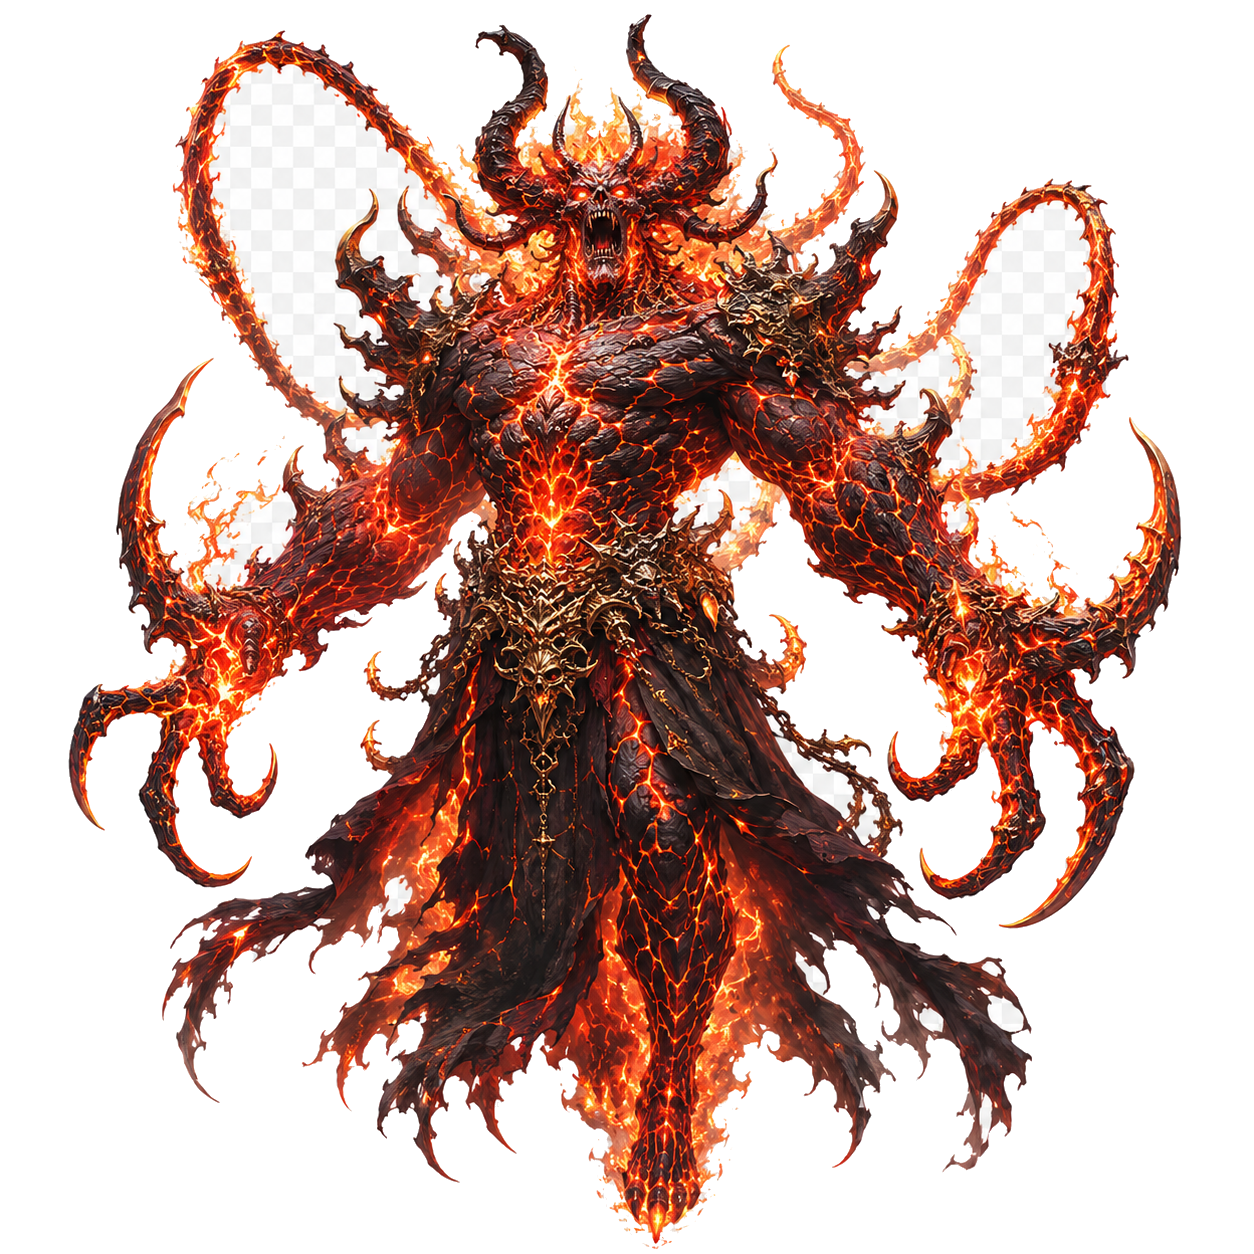
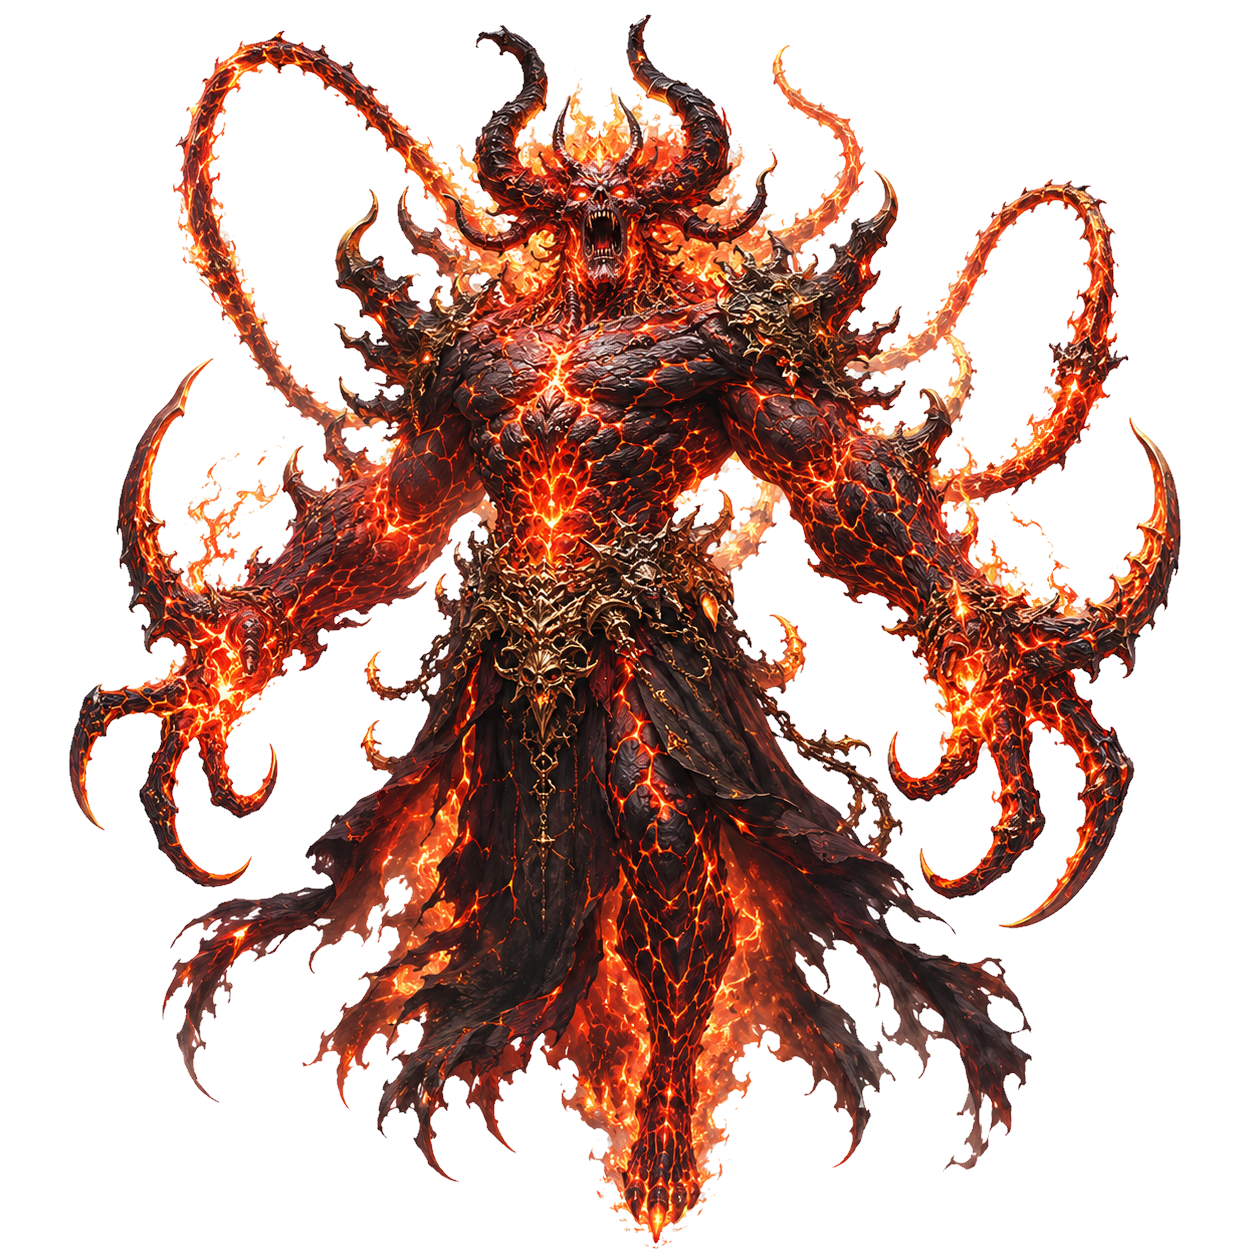
feat(八獄): プレータの画像を追加（透過処理済み）＋ターパナの白残りも除去
- pure-ta.png: チェック柄背景を透過化・胸元のハイライト誤削除は元画像から復元
- hatigokuta-pana.png: 白いポケット/縁の取り残しを同処理で除去
- これでボス画像8/8体すべて実装完了

Changed region(s): [[0.6842, 0.311, 0.7153, 0.3421]]

diff --git a/src/lib/hachigoku.js b/src/lib/hachigoku.js
@@ -123,7 +123,7 @@ export const HACHIGOKU_HELLS = [
     ultimate: { name: '血盆陀羅', mult: 3.0, hpBelow: 0.5, inflict: ['poison'], bleedStacks: 5, selfHealPct: 0.3 },
   },
   {
-    key: 'gaki', name: '餓鬼地獄', boss: 'プレータ', img: null,  // 画像は後日追加予定
+    key: 'gaki', name: '餓鬼地獄', boss: 'プレータ', img: '/pure-ta.png',
     theme: '吸血効果', arch: 'drainer', type: 'physical',
     crystals: ['bkyuushuu', 'tkyuushuu'],
     soul: 'プレータの魂', memory: 'プレータの記憶',
